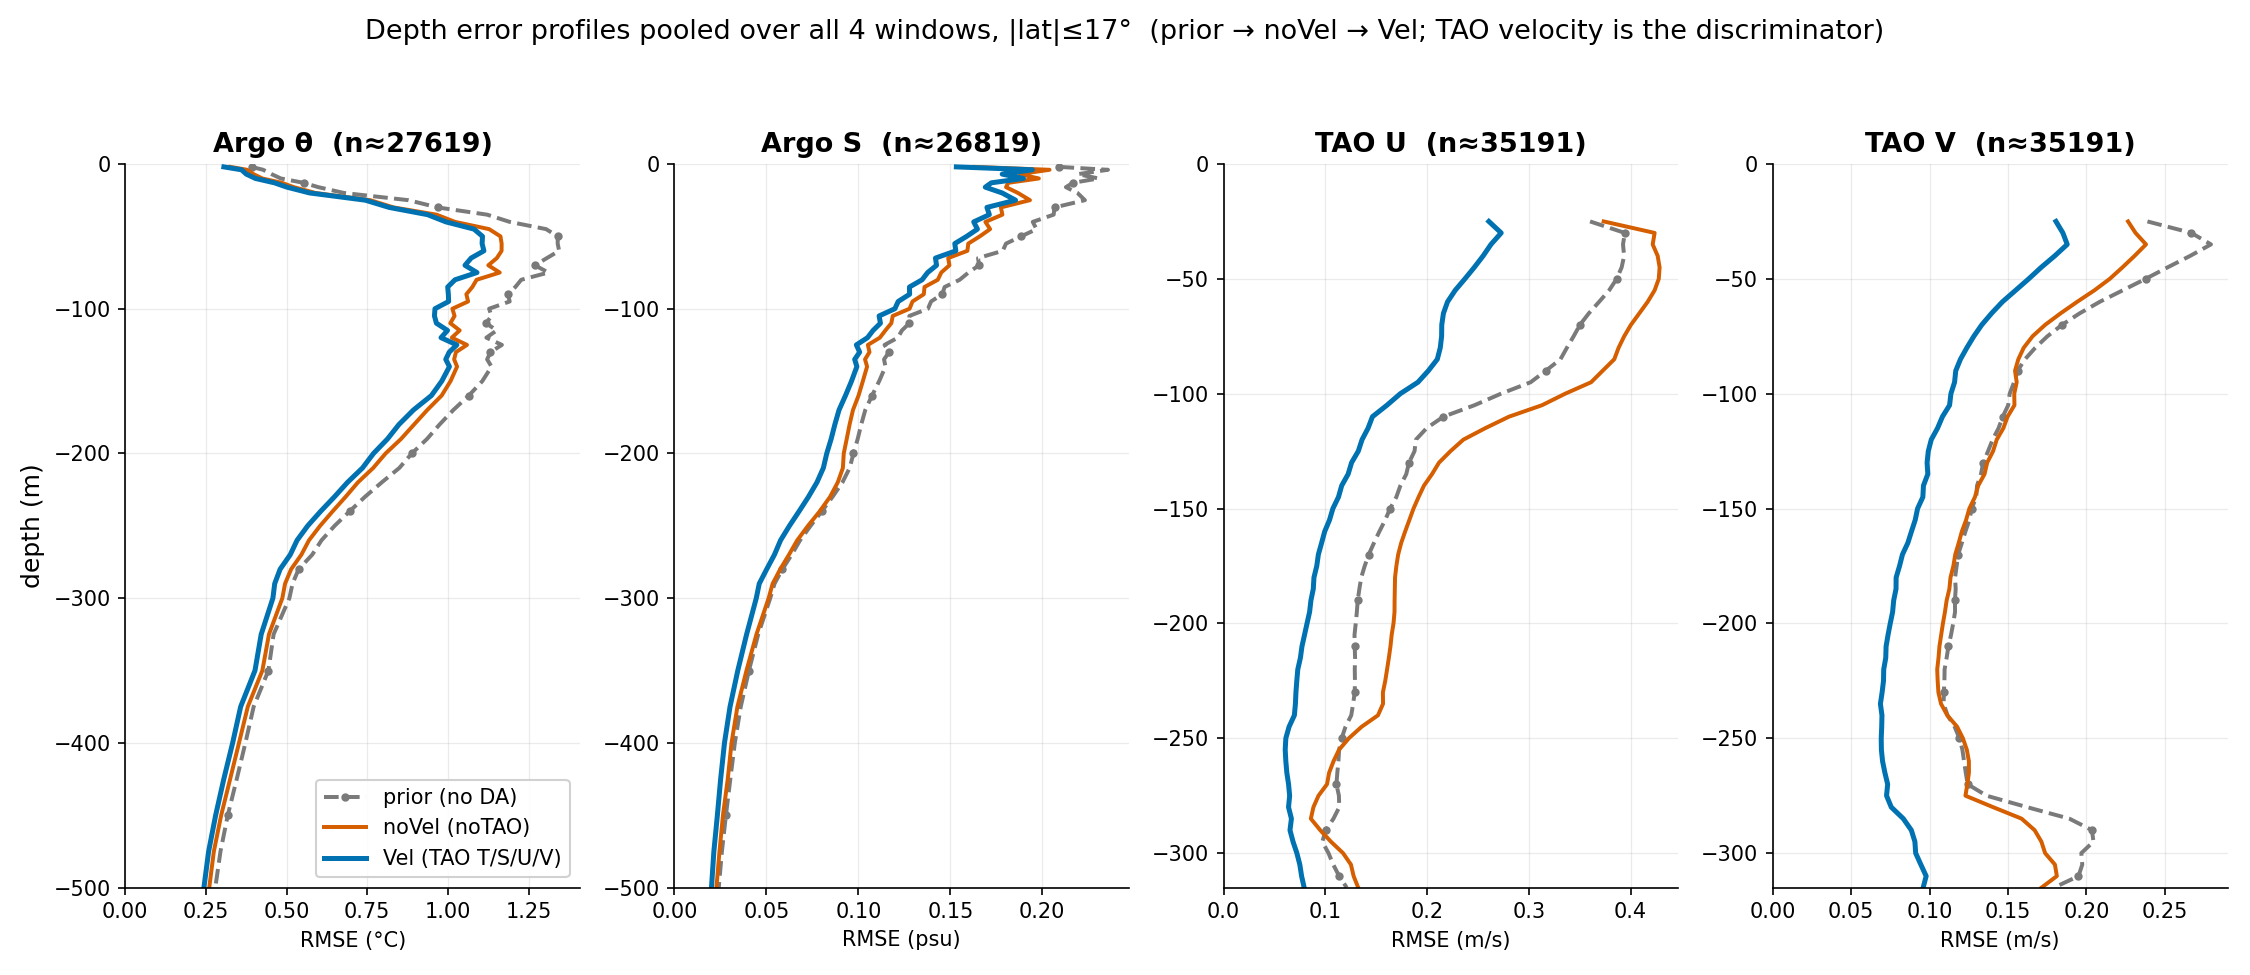
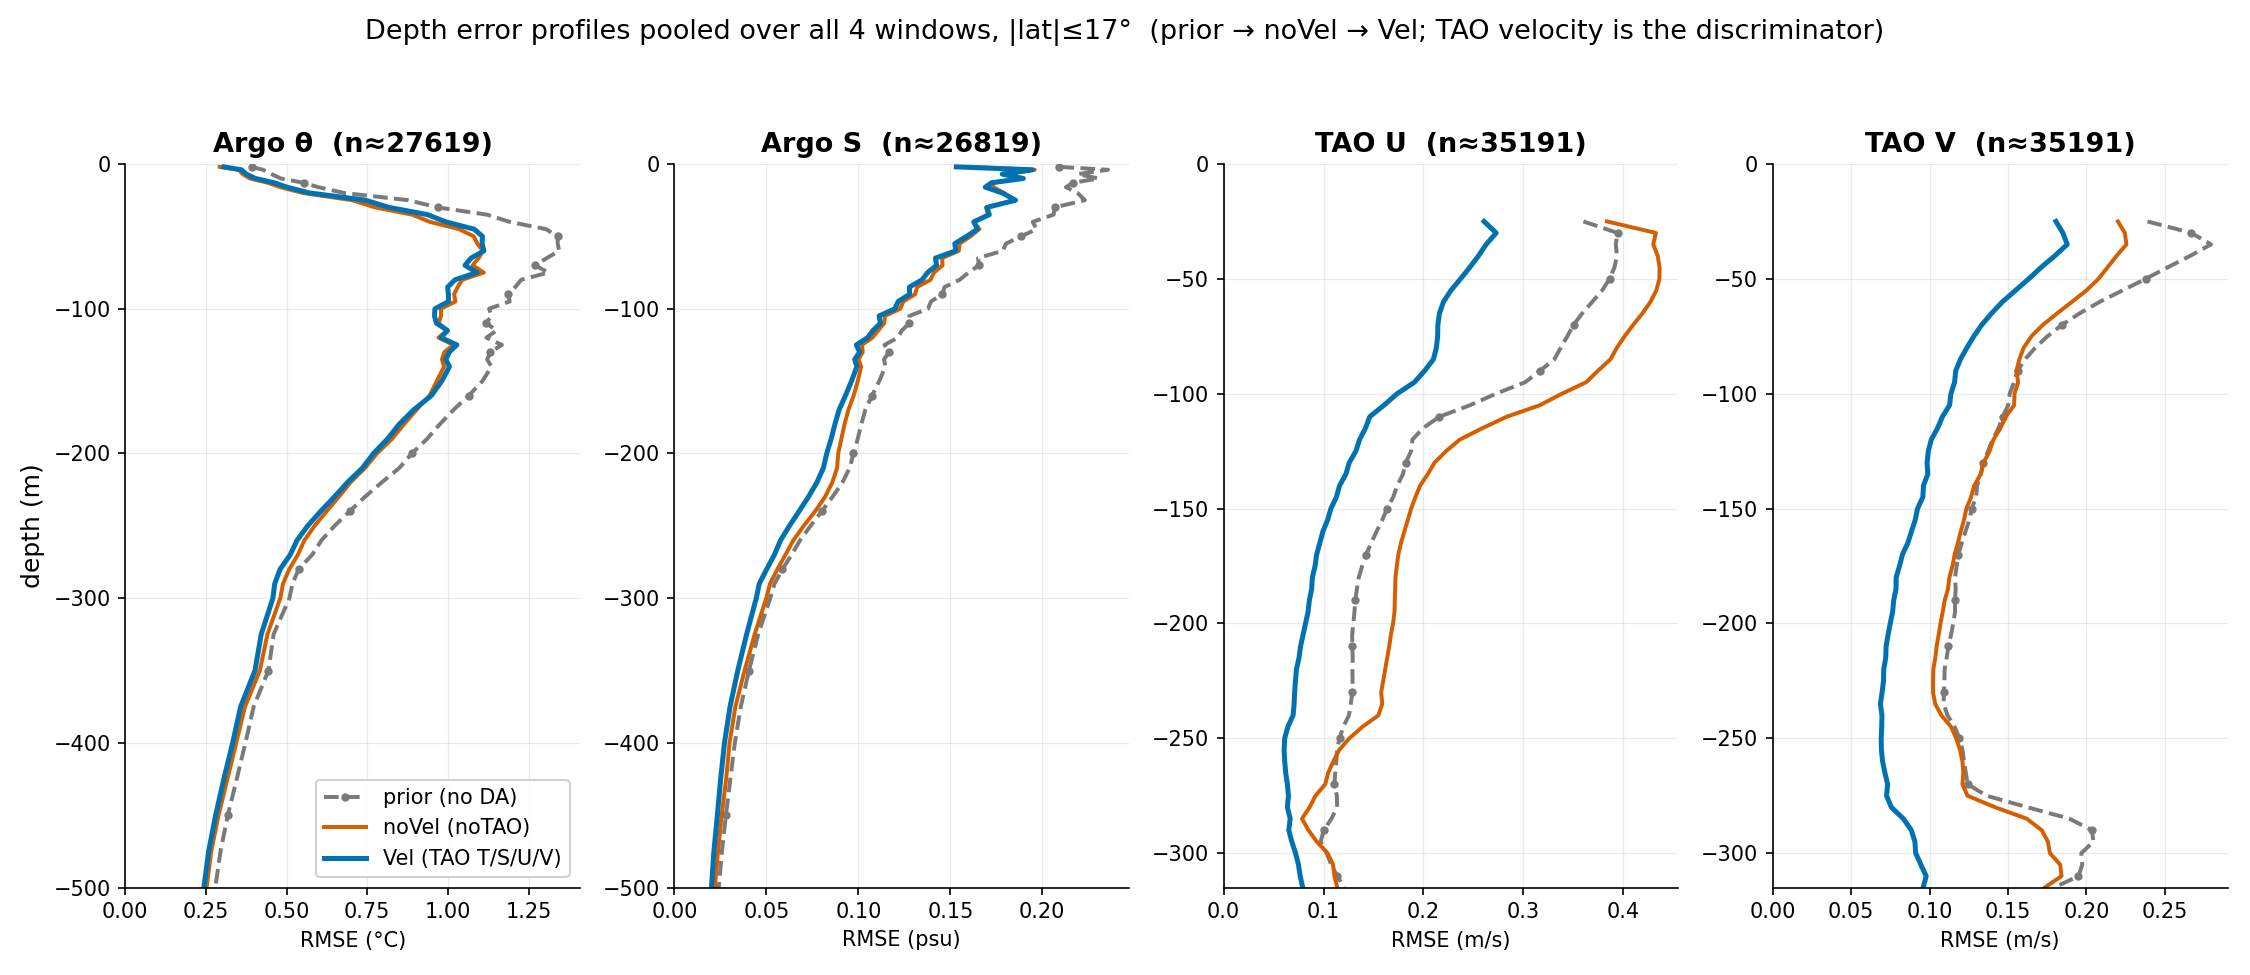
updating with most recent nov2012 noVel (with TAO T/S)

diff --git a/summary_figs.py b/summary_figs.py
@@ -1,5 +1,5 @@
 """
-Summary comparison figures across the three full solutions (noVel / TSOnly / Vel),
+Summary comparison figures across the two full solutions (noVel / Vel),
 focused on SST, Argo T/S and TAO U/V (SSH deliberately excluded). Deliverables land
 in figs/summary/. Reuses the cached obs/model samples, grids, and euctiw fields, plus
 the TAO daily-series helpers in anova.py.
@@ -25,10 +25,9 @@ OUT = f'{HERE}/figs/summary'
 CACHE = tiw.CACHE
 
 # distinct, colorblind-friendly palette (Okabe-Ito) — used across the summary figs
-PRIOR, NOVEL, TSONLY, VEL = '#7a7a7a', '#D55E00', '#009E73', '#0072B2'
+PRIOR, NOVEL, VEL = '#7a7a7a', '#D55E00', '#0072B2'
 SOLUTIONS = [('prior', PRIOR, 'prior (no DA)'),
              ('noVel', NOVEL, 'noVel (noTAO)'),
-             ('TSOnly', TSONLY, 'TSOnly (TAO T/S)'),
              ('Vel', VEL, 'Vel (TAO T/S/U/V)')]
 PROF = [('argo', 'T', 'Argo θ', '°C', -500),
         ('argo', 'S', 'Argo S', 'psu', -500),
@@ -52,7 +51,7 @@ def fig_error_profiles():
             m = np.load(f'{CACHE}/model_{run}_{prod}_{var}.npy')[latok]
             dashed = run == 'prior'
             ax.plot(tiw.rmse_profile(obs, m, w), depth, color=color,
-                    lw=2.6 if run in ('Vel', 'TSOnly') else 1.9,
+                    lw=2.6 if run == 'Vel' else 1.9,
                     ls='--' if dashed else '-', label=rlabel,
                     marker='o' if dashed else None, ms=3, markevery=4, zorder=3)
         ax.set_title(label, fontsize=13, fontweight='bold')
@@ -61,7 +60,7 @@ def fig_error_profiles():
         ax.tick_params(labelsize=10)
     axs[0].set_ylabel('depth (m)', fontsize=12)
     axs[0].legend(fontsize=10, loc='lower right', frameon=True, framealpha=0.9)
-    fig.suptitle('Error vs depth: prior → noVel → TSOnly → Vel\n'
+    fig.suptitle('Error vs depth: prior → noVel → Vel\n'
                  'TAO T/S corrects θ/S everywhere; only the velocity constraint pulls '
                  'TAO U/V error down through the thermocline',
                  fontsize=13)
@@ -73,9 +72,9 @@ def fig_error_profiles():
 
 def fig_error_and_decomp_profiles():
     fig = plt.figure(figsize=(15, 11.5), constrained_layout=True)
-    sfigs = fig.subfigures(2, 1, hspace=0.14)
+    sfigs = fig.subfigures(2, 1, hspace=0.06)
     top, bot = sfigs[0].subplots(1, 4), sfigs[1].subplots(1, 4)
-    # top row: prior -> noVel -> TSOnly -> Vel
+    # top row: prior -> noVel -> Vel
     for ax, (prod, var, label, unit, zlim) in zip(top, PROF):
         o = np.load(f'{CACHE}/obs_{prod}.npz')
         depth, obs, w = o['depth'], o[f'obs_{var}'], o[f'w_{var}']
@@ -107,7 +106,9 @@ def fig_error_and_decomp_profiles():
             if run == 'prior':
                 style = dict(lw=1.9, ls='--', marker='o', ms=3, markevery=4)
             else:
-                style = dict(lw=1.3); style.update(kw)
+                style = dict(lw=1.8); style.update(kw)   # thicker controls
+                if color == 'k':                         # thin the full-Vel reference line
+                    style['lw'] = 1.2
             ax.plot(tiw.rmse_profile(o, np.load(fp)[latok], w), depth,
                     color=color, label=lbl or mf._dlabel(run), **style)
         ax.set_title(label, fontsize=13)
@@ -146,27 +147,22 @@ def fig_skill_maps():
     sst_full, _ = tiw.load_sst(nx, ny)
     obs = _obs_on_days(sst_full, days)
     mean_sst = np.nanmean(obs, axis=0)
-    rmse = {r: _sst_rmse_map(r, obs) for r in ('noVel', 'TSOnly', 'Vel')}
+    rmse = {r: _sst_rmse_map(r, obs) for r in ('noVel', 'Vel')}
 
     def crop_coarsen(a):
         da = xr.DataArray(a, coords={'YC': yc, 'XC': xc}, dims=['YC', 'XC'])
         da = da.sel(YC=slice(*REGION['lat']), XC=slice(*REGION['lon']))
         return da.coarsen(YC=3, XC=3, boundary='trim').mean()
 
-    COLS = [('Vel', 'noVel', 'All TAO obs\nRMSE(Vel) − RMSE(noVel)'),
-            ('TSOnly', 'noVel', 'via TAO T/S\nRMSE(TSOnly) − RMSE(noVel)'),
-            ('Vel', 'TSOnly', 'via velocity obs\nRMSE(Vel) − RMSE(TSOnly)')]
-    fig, axs = plt.subplots(1, 3, figsize=(22, 3.6), sharex=True, sharey=True,
-                            constrained_layout=True)
-    for ax, (a, b, title) in zip(axs, COLS):
-        red = crop_coarsen(rmse[a] - rmse[b])
-        pc = ax.pcolormesh(red.XC, red.YC, red.values, cmap='RdBu_r',
-                           vmin=-0.4, vmax=0.4, shading='auto')
-        ax.plot([m[0] for m in TAO_EQ], [m[1] for m in TAO_EQ], 'kv', ms=8,
-                markerfacecolor='yellow', markeredgewidth=0.9)
-        ax.set_title(title, fontsize=12); ax.set_xlabel('lon (°E)')
-    axs[0].set_ylabel('lat (°N)')
-    fig.colorbar(pc, ax=axs, shrink=0.85, label='SST RMSE difference (°C)')
+    fig, ax = plt.subplots(figsize=(9, 3.6), constrained_layout=True)
+    red = crop_coarsen(rmse['Vel'] - rmse['noVel'])
+    pc = ax.pcolormesh(red.XC, red.YC, red.values, cmap='RdBu_r',
+                       vmin=-0.4, vmax=0.4, shading='auto')
+    ax.plot([m[0] for m in TAO_EQ], [m[1] for m in TAO_EQ], 'kv', ms=8,
+            markerfacecolor='yellow', markeredgewidth=0.9)
+    ax.set_title('All TAO obs\nRMSE(Vel) − RMSE(noVel)', fontsize=12)
+    ax.set_xlabel('lon (°E)'); ax.set_ylabel('lat (°N)')
+    fig.colorbar(pc, ax=ax, shrink=0.85, label='SST RMSE difference (°C)')
     fig.savefig(f'{OUT}/skill_maps_sst_by_obs.png', dpi=150); plt.close(fig)
     print('wrote skill_maps_sst_by_obs.png')
 
@@ -188,8 +184,8 @@ def fig_tiw_hovmoller():
     oh = _sst_hov(_obs_on_days(sst_full, days), yc, xc)
     panels = [('obs', oh, 'mw_fusion obs')] + [
         (r, _sst_hov(xr.open_dataarray(f'{CACHE}/grid_{r}_sst.nc').values, yc, xc), lab)
-        for r, lab in [('noVel', 'noVel'), ('TSOnly', 'TSOnly'), ('Vel', 'Vel')]]
-    fig, axs = plt.subplots(2, 4, figsize=(16, 12), sharex=True, sharey=True,
+        for r, lab in [('noVel', 'noVel'), ('Vel', 'Vel')]]
+    fig, axs = plt.subplots(2, 3, figsize=(13, 12), sharex=True, sharey=True,
                             constrained_layout=True)
     for j, (r, h, lab) in enumerate(panels):
         pa = axs[0, j].pcolormesh(h.XC, days, h.values, cmap='RdBu_r', vmin=-1.2, vmax=1.2,
@@ -217,23 +213,21 @@ def fig_tiw_hovmoller():
 
 # ============================ (4) EUC depth-lon section ===========================
 def fig_euc_section():
-    E = {r: xr.open_dataset(f'{CACHE}/euctiw_{r}.nc')['euc'] for r in ('noVel', 'TSOnly', 'Vel')}
+    E = {r: xr.open_dataset(f'{CACHE}/euctiw_{r}.nc')['euc'] for r in ('noVel', 'Vel')}
     sl = dict(Z=slice(0, -300), XG=slice(180, 280))
 
     def cr(da):
         return da.sel(XG=slice(180, 280)).where(da.Z > -300, drop=True)
-    vel, ts_imp, v_imp = cr(E['Vel']), cr(E['TSOnly'] - E['noVel']), cr(E['Vel'] - E['TSOnly'])
-    fig, axs = plt.subplots(1, 3, figsize=(21, 4.2), sharey=True, constrained_layout=True)
+    vel, imp = cr(E['Vel']), cr(E['Vel'] - E['noVel'])
+    fig, axs = plt.subplots(1, 2, figsize=(14, 4.2), sharey=True, constrained_layout=True)
     p0 = axs[0].pcolormesh(vel.XG, vel.Z, vel.values, cmap='RdBu_r', vmin=-1, vmax=1, shading='auto')
     axs[0].contour(vel.XG, vel.Z, vel.values, levels=[0.2, 0.5, 0.8], colors='k', linewidths=0.6)
     axs[0].set_title('TPOSE-Vel: mean zonal current')
     fig.colorbar(p0, ax=axs[0], shrink=0.9, label='U (m/s)')
-    for ax, (da, title) in zip(axs[1:], [(ts_imp, 'Influence of TAO T/S (TSOnly − noVel)'),
-                                         (v_imp, 'Influence of TAO U/V (Vel − TSOnly)')]):
-        pc = ax.pcolormesh(da.XG, da.Z, da.values, cmap='PuOr_r', vmin=-0.3, vmax=0.3, shading='auto')
-        ax.contour(vel.XG, vel.Z, vel.values, levels=[0.2, 0.5, 0.8], colors='0.4', linewidths=0.5)
-        ax.set_title(title)
-        fig.colorbar(pc, ax=ax, shrink=0.9, label='ΔU (m/s)')
+    pc = axs[1].pcolormesh(imp.XG, imp.Z, imp.values, cmap='PuOr_r', vmin=-0.3, vmax=0.3, shading='auto')
+    axs[1].contour(vel.XG, vel.Z, vel.values, levels=[0.2, 0.5, 0.8], colors='0.4', linewidths=0.5)
+    axs[1].set_title('Influence of all TAO obs (Vel − noVel)')
+    fig.colorbar(pc, ax=axs[1], shrink=0.9, label='ΔU (m/s)')
     for ax in axs:
         ax.set_xlabel('lon (°E)')
     axs[0].set_ylabel('depth (m)')
@@ -417,10 +411,10 @@ def _phase_speed(a, dlon):
 
 
 def fig_vhov_mooring():
-    """V@50m equatorial Hovmoller (noVel/TSOnly/Vel) with lines tracing the dominant westward
+    """V@50m equatorial Hovmoller (noVel/Vel) with lines tracing the dominant westward
     TIW events, annotated with their phase speed — shows how timing & propagation adjust."""
     VMAX = 0.5
-    hov = {r: _vhov50(r) for r in ('noVel', 'TSOnly', 'Vel')}
+    hov = {r: _vhov50(r) for r in ('noVel', 'Vel')}
     ha = {r: (hov[r] - hov[r].mean('time')) for r in hov}
     lon = ha['Vel'].XC.values
     dlon = float(np.mean(np.diff(lon)))
@@ -431,8 +425,8 @@ def fig_vhov_mooring():
     pk = np.sort(pk[np.argsort(amp_s[pk])[::-1][:2]])
     events = [(max(0, p - 18), min(len(tiw.DAYS), p + 18)) for p in pk]
 
-    fig, axs = plt.subplots(1, 3, figsize=(16, 8), sharey=True, constrained_layout=True)
-    for ax, r in zip(axs, ('noVel', 'TSOnly', 'Vel')):
+    fig, axs = plt.subplots(1, 2, figsize=(11, 8), sharey=True, constrained_layout=True)
+    for ax, r in zip(axs, ('noVel', 'Vel')):
         pc = ax.pcolormesh(lon, tiw.DAYS, ha[r].values, cmap='RdBu_r',
                            vmin=-VMAX, vmax=VMAX, shading='auto')
         for (t0, t1) in events:

diff --git a/misfit_cost.py b/misfit_cost.py
@@ -147,26 +147,43 @@ def _sample(prep, obs):
     return out
 
 
+S_FLOOR = 28.0   # psu; casts dipping below this are corrupted (see _good_profiles)
+
+
+def _good_profiles(obs):
+    """Per-cast QC mask (True = keep): drop whole profiles with non-physical
+    salinity (any valid S < S_FLOOR). Removes a cluster of corrupted WOD-CTD
+    warm-pool casts (12-15N, 140-143E, 2013) whose surface S collapses to ~20 psu
+    and otherwise dominates the CTD-S cost. Model-independent (data QC, not a
+    misfit clip); genuine tropical-Pacific Argo fresh lenses bottom out ~28.3 psu,
+    so the floor touches no legitimate profile. Omits the whole cast (T and S)."""
+    if 'prof_S' not in obs:
+        return np.ones(obs['lat'].size, bool)
+    S, w = obs['prof_S'].values, obs['prof_Sweight'].values
+    return np.where((S != -9999.) & (w > 0), S, np.inf).min(1) >= S_FLOOR
+
+
 def _profiles(rows, win, state):
     # open every obs file for this window once (obs are solution-independent)
-    obs_sets = []        # (spec, obs)
+    obs_sets = []        # (spec, obs, good-cast mask)
     for spec in PROFILE_PRODUCTS:
         for y in WINDOWS[win]['years']:
             p = spec['path'](y)
             if os.path.exists(p):
-                obs_sets.append((spec, tiw.open_obs(p)))
+                obs = tiw.open_obs(p)
+                obs_sets.append((spec, obs, _good_profiles(obs)))
             else:
                 print(f'  {win} skip missing {os.path.basename(p)}', flush=True)
     acc = {}             # (role, name, group) -> [sum_wsq, n]
     for r in state:                         # only roles that loaded
         ds, prep = state[r], {}
-        for spec, obs in obs_sets:
+        for spec, obs, good in obs_sets:
             for v in spec['vars']:
                 if v not in prep:                      # load each field once per run
                     prep[v] = _prep_field(ds, v)
                 man = _sample(prep[v], obs)
-                wt0 = np.where(np.abs(obs['lat'].values)[:, None] <= LAT_LIMIT,
-                               obs[f'prof_{v}weight'].values, 0.0)   # domain restriction
+                keep = (np.abs(obs['lat'].values) <= LAT_LIMIT) & good   # domain + QC
+                wt0 = np.where(keep[:, None], obs[f'prof_{v}weight'].values, 0.0)
                 o, m, wt = tiw._mask(obs[f'prof_{v}'].values, man, wt0)
                 a = acc.setdefault((r, spec['names'][v], spec['group']), [0.0, 0])
                 a[0] += float(np.sum(wt * (o - m) ** 2))

diff --git a/README.md b/README.md
@@ -1,0 +1,66 @@
+# tiw-controls
+
+Attribution analysis for the TPOSE6 **withheld-controls** experiments: which
+assimilation control (adjustable initial conditions + surface forcing) is
+responsible for the model's tropical-instability-wave (TIW) skill, and by what
+mechanism.
+
+Each experiment is a *fixed-increment* run: starting from the no-DA `prior`
+(iter0), one control (or a named combination) is switched on at its
+full-solution optimized value while everything else stays at background. We
+sample every run's output at the observation coordinates, score it against the
+obs, and decompose the skill back onto the individual controls.
+
+Window: **Sep–Dec 2012** (122 daily records from 2012-09-01). Reference
+full solutions: `noVel` (DA without velocity constraints), `TSOnly` (TAO T/S
+assimilated, no U/V), `Vel` (full TPOSE6). `noVel`↔`Vel` differ only by whether
+velocity obs are assimilated.
+
+## Layout
+
+Scripts read/write a cache on `/data` (`tiw.CACHE`), not the repo; only figures
+and CSVs are committed under `figs/`.
+
+| file | what it does |
+|------|--------------|
+| `tiw.py` | run registry (`RUNS`, `CONTROLS`, `CONTROL_XX`), obs loaders (Argo/TAO/SST/SSH/RADS), shared misfit metrics (`rmse`, `wcost`, `bias`, `rmse_profile`). |
+| `compute_metrics.py` | samples each run to the obs → `cache/model_<run>_*`, gridded SST/SSH → `cache/grid_<run>_*`, and the scalar misfit table `cache/metrics.csv`. |
+| `make_figures.py` | per-experiment figures (`figs/<family>/<control>/fig1–6`), cross-experiment intercomparison, increment decomposition, and the skill-ranking summary. `TIW_FAMILY=vel|novel`. |
+| `compare_families.py` | three-solution comparison (noVel vs TSOnly vs Vel): full-solution skill + control attribution shifts as more obs are added. |
+| `anova.py` | fixed-increment factorial ANOVA over the EUC/TIW regions + TIW phase/amplitude/envelope analysis and interaction-field maps. |
+| `misfit_cost.py` | cross-window normalized model–data cost (χ²/obs) for prior/noVel/Vel, per obs type. |
+| `profile_windows.py` | Argo/TAO RMSE profiles across the four assimilation windows. |
+| `spectra.py` | ω–k / frequency / wavenumber spectra over the TIW window, with equatorial-wave dispersion curves. |
+
+`TODO.md` is the detailed, running project log (per-figure notes, open threads).
+
+## Special notes
+
+- **Product comparisons are evaluated only within ±17° latitude (17°S–17°N),
+  away from the domain boundaries, where every product was assimilated.** This
+  is the band where the comparison between solutions is meaningful — the TPOSE
+  assimilation error grids are themselves defined 17S–17N
+  (`SST_error_tpose6_17Sto17N.bin`). The cut is applied in `compute_metrics.py`
+  (`LAT_LIMIT`), `make_figures.py`, `summary_figs.py`, `misfit_cost.py`, and
+  `profile_windows.py`. EUC diagnostics are the deliberate exception: they are
+  equatorial (`|lat|<0.5` at the TAO moorings) and so already inside the band.
+- **Regenerating `metrics.csv`:** the single-control run diag output is purged
+  after caching, so a plain `compute_metrics.py <run>` can only redo the live
+  runs (prior/noVel/Vel/TSOnly). To rebuild the whole table from the existing
+  cache (e.g. after changing `LAT_LIMIT`), use
+  `compute_metrics.py --from-cache`.
+- Profile obs weights are `1/σ²` (`weight==0` ⇒ excluded). SST/SSH have no
+  profile weights; they are scored against their own gridded error fields.
+- Obs longitudes are −180..180 while the model grid is 0..360; dry cells read as
+  0 and must be masked. See `tiw.py` loaders.
+
+## Running
+
+```bash
+PY=~/miniforge3/envs/tpose/bin/python
+$PY compute_metrics.py                 # sample live runs + write metrics.csv
+$PY compute_metrics.py --from-cache    # rebuild metrics.csv from cache only
+TIW_FAMILY=vel   $PY make_figures.py
+TIW_FAMILY=novel $PY make_figures.py
+$PY compare_families.py
+```
